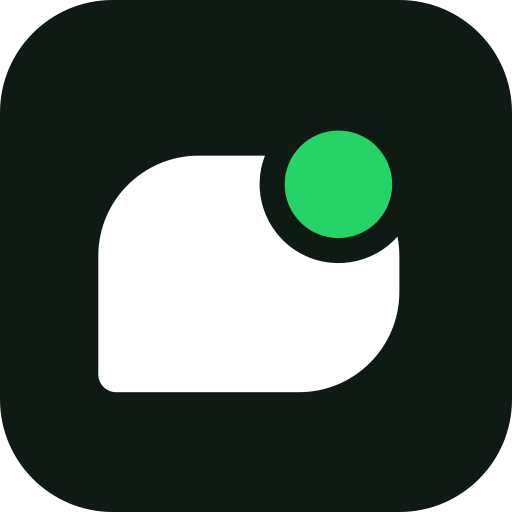
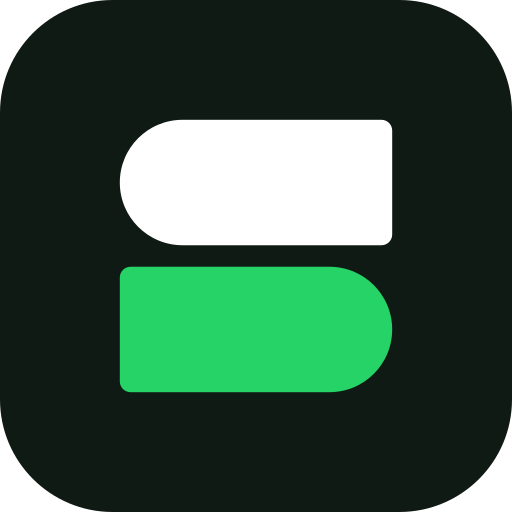
feat: redraw Sara marks as an admin assistant, not a chat brand
Handoff (default): an s in two halves, the owner's in ink and the half
Sara takes on in green. Cradle and Clover as alternates. Drops every
chat-bubble mark; DESIGN.md records the direction and the rejects.
Favicon, app icons and public/brand regenerated.

Changed region(s): [[0.1875, 0.2188, 0.7812, 0.7812]]

diff --git a/src/primitives/Logo.tsx b/src/primitives/Logo.tsx
@@ -3,39 +3,40 @@ import { cn } from "@/utils/cn";
 /**
  * The Sara marks.
  *
- * Sara sells one idea: the back office of a salon chain, run from the chat the
- * owner already has open. "Reply with a number. Sara does the rest." Both marks
- * are drawn from that exchange, in the product's own bubble language (18 : 6
- * radii, tail corners) and its colour rule: green belongs to the owner's own
- * voice, ink to Sara.
+ * Sara is a software assistant for small service businesses: it takes the
+ * administrative weight (invoices, receipts, bookings, payments, the day's
+ * numbers) off the owner so the owner can do the work itself. The marks say
+ * that, not where Sara happens to be reached. Each is two parts, the owner's
+ * business in ink and Sara's help in the one green, drawn heavy and soft to sit
+ * beside Bricolage the way the reference marks sit beside their names.
  *
- * - `reply`   Sara's bubble (ink, tail bottom-left) with the owner's green
- *             reply, the numeral disc from the menu, landing on its corner.
- *             One chat, a number in, the business answered. **Default.**
- * - `thread`  the exchange written out: Sara's menu in two lines, the owner's
- *             green reply below on the right. For wide, quiet places where the
- *             conversation should read as a conversation.
+ * - `handoff`  an `s` in two halves: the owner's half on top, the half Sara
+ *              takes off their hands below, in green. Admin handed over, the
+ *              business whole. **Default.**
+ * - `cradle`   an arm that holds a green disc up: support, the business carried.
+ *              The friendliest of the three; reads as a helper.
+ * - `clover`   four petals for the four jobs (bookings, invoices, receipts,
+ *              payments) round an open centre, the green one handled. Set on
+ *              the diagonal so it never reads as an AI sparkle.
  *
- * Both were proofed from 16px up (`yarn brand:generate` writes the sheet to
- * public/brand/sara-specimen.png). Rejected on that sheet, so not re-proposed:
- * two stacked bubbles (reads as any messaging app, says nothing of the
- * business), a six-petal menu burst (reads as an AI sparkle, and Sara is never
- * AI), an `s` strung from menu beads (the letter vanishes into a molecule), and
- * a torn-receipt bubble (reads as a ghost).
+ * All three were proofed from 16px up (`yarn brand:generate` writes the sheet
+ * to public/brand/sara-specimen.png). Rejected, not to be re-proposed: any chat
+ * bubble (Sara is not a messaging brand), a six-petal burst (AI sparkle), an
+ * `s` of beads, a receipt bubble (reads as a ghost), a concierge bell (reads
+ * as a food cloche), stacked list rows (a list icon), and a fully rounded
+ * `handoff`, which stops being an `s` and becomes two pills.
  *
- * `reply`'s notch is cut into the path itself rather than masked, so the mark
- * needs no ids and survives export to anything that reads bare SVG. Path data
- * here is the source of truth; scripts/gen-brand-assets.mjs restates it and
- * asserts every path still appears in this file.
+ * Path data here is the source of truth; scripts/gen-brand-assets.mjs restates
+ * it and asserts every path still appears in this file.
  */
 
-export type MarkName = "reply" | "thread";
+export type MarkName = "handoff" | "cradle" | "clover";
 
 type MarkProps = {
   name?: MarkName;
   /**
-   * Fill the owner's shape WhatsApp green. Turn it off for single-ink uses (a
-   * stamp, print) and on a green ground, where it would vanish.
+   * Fill Sara's part green. Turn it off for single-ink uses (a stamp, print)
+   * and on a green ground, where it would vanish.
    */
   accent?: boolean;
   className?: string;
@@ -47,7 +48,7 @@ type MarkProps = {
  * ink both work without variants.
  */
 export function LogoMark({
-  name = "reply",
+  name = "handoff",
   accent = true,
   className,
 }: MarkProps) {
@@ -65,45 +66,25 @@ export function LogoMark({
 }
 
 function Glyph({ name, accent }: { name: MarkName; accent: boolean }) {
-  if (name === "thread") return <Thread accent={accent} />;
-  return <Reply accent={accent} />;
+  if (name === "cradle") return <Cradle accent={accent} />;
+  if (name === "clover") return <Clover accent={accent} />;
+  return <Handoff accent={accent} />;
 }
 
 /**
- * An 84 x 66 bubble, 28 radius with a 5 tail corner (the system's bubble ratio
- * at mark scale), notched by a 22-radius moat round the 15-radius disc at
- * (73, 30). The moat is 7 units, wide enough to stay open at 16px, so the two
- * voices never touch.
+ * Two 76 x 35 halves, 6 apart, each round (17.5) on its outer end and nearly
+ * square (3) on its inner one. The near-square corners are what make it an
+ * `s`: rounded to match, the halves read as two stacked pills.
  */
-function Reply({ accent }: { accent: boolean }) {
+function Handoff({ accent }: { accent: boolean }) {
   return (
     <g>
       <path
-        d="M34 22H52.51A22 22 0 0 0 89.47 44.58A28 28 0 0 1 90 50V60A28 28 0 0 1 62 88H11A5 5 0 0 1 6 83V50A28 28 0 0 1 34 22Z"
-        fill="currentColor"
-      />
-      <Shape d="M58 30A15 15 0 1 0 88 30A15 15 0 1 0 58 30Z" accent={accent} />
-    </g>
-  );
-}
-
-/**
- * Three 20-unit rows, 6 apart: Sara's two lines left-aligned, the last with
- * Sara's tail corner; the owner's reply right-aligned with the owner's.
- */
-function Thread({ accent }: { accent: boolean }) {
-  return (
-    <g>
-      <path
-        d="M18 14H82A10 10 0 0 1 82 34H18A10 10 0 0 1 18 14Z"
-        fill="currentColor"
-      />
-      <path
-        d="M18 40H54A10 10 0 0 1 64 50V50A10 10 0 0 1 54 60H12A4 4 0 0 1 8 56V50A10 10 0 0 1 18 40Z"
+        d="M29.5 12H85A3 3 0 0 1 88 15V44A3 3 0 0 1 85 47H29.5A17.5 17.5 0 0 1 29.5 12Z"
         fill="currentColor"
       />
       <Shape
-        d="M46 66H82A10 10 0 0 1 92 76V82A4 4 0 0 1 88 86H46A10 10 0 0 1 36 76V76A10 10 0 0 1 46 66Z"
+        d="M15 53H70.5A17.5 17.5 0 0 1 70.5 88H15A3 3 0 0 1 12 85V56A3 3 0 0 1 15 53Z"
         accent={accent}
       />
     </g>
@@ -111,7 +92,44 @@ function Thread({ accent }: { accent: boolean }) {
 }
 
 /**
- * The owner's shape: `fill-accent` when accented, `currentColor` when not. A
+ * A 35-radius half-ring in a 15-unit round-capped stroke, holding a
+ * 17-radius disc clear of it by 11: held, never touching.
+ */
+function Cradle({ accent }: { accent: boolean }) {
+  return (
+    <g>
+      <path
+        d="M15 40A35 35 0 0 0 85 40"
+        fill="none"
+        stroke="currentColor"
+        strokeWidth={15}
+        strokeLinecap="round"
+      />
+      <Shape d="M33 34A17 17 0 1 0 67 34A17 17 0 1 0 33 34Z" accent={accent} />
+    </g>
+  );
+}
+
+/**
+ * Four teardrop petals struck from radius 6, tips 14-radius bulbs at radius
+ * 33, on the diagonals. The green petal points up-right.
+ */
+function Clover({ accent }: { accent: boolean }) {
+  return (
+    <g fill="currentColor">
+      <path d="M54.24 54.24L76.67 59.74A14 14 0 1 1 59.74 76.67Z" />
+      <path d="M45.76 54.24L40.26 76.67A14 14 0 1 1 23.33 59.74Z" />
+      <path d="M45.76 45.76L23.33 40.26A14 14 0 1 1 40.26 23.33Z" />
+      <Shape
+        d="M54.24 45.76L59.74 23.33A14 14 0 1 1 76.67 40.26Z"
+        accent={accent}
+      />
+    </g>
+  );
+}
+
+/**
+ * Sara's part: `fill-accent` when accented, `currentColor` when not. A
  * component rather than a ternary so the accented case emits no `fill`
  * attribute for the utility to fight with.
  */
@@ -122,12 +140,11 @@ function Shape({ d, accent }: { d: string; accent: boolean }) {
 
 /**
  * The mark in a filled tile: favicon, app icon, avatar. `ink` (the default and
- * the favicon) keeps the green reply; green on ink is a fill on a dark ground,
- * not text, and it keeps the tab icon from passing for WhatsApp's own green
- * tile. `accent` draws the whole mark in on-accent.
+ * the favicon) keeps Sara's part green; green on ink is a fill on a dark
+ * ground, not text. `accent` draws the whole mark in on-accent.
  */
 export function LogoTile({
-  name = "reply",
+  name = "handoff",
   ground = "ink",
   className,
 }: {
@@ -159,7 +176,11 @@ export function LogoTile({
 }
 
 /** A bare mark that carries the name, for places with no wordmark beside it. */
-export function Logo({ name = "reply", accent = true, className }: MarkProps) {
+export function Logo({
+  name = "handoff",
+  accent = true,
+  className,
+}: MarkProps) {
   return (
     <span role="img" aria-label="Sara" className={cn("inline-flex", className)}>
       <LogoMark name={name} accent={accent} />

diff --git a/src/primitives/Wordmark.tsx b/src/primitives/Wordmark.tsx
@@ -13,7 +13,7 @@ import { LogoMark, type MarkName } from "./Logo";
 export function Wordmark({
   href = "/",
   mark = true,
-  name = "reply",
+  name = "handoff",
   className,
 }: {
   href?: string;

diff --git a/DESIGN.md b/DESIGN.md
@@ -259,10 +259,11 @@ Soft and friendly. Every interactive control is a full pill (buttons, slot choic
 Sticky white bar, translucent with blur, 64px; wordmark "sara" in display 600 at 26px on the left, muted 15px links centred, compact primary on the right. Links darken to ink on hover. Below 960px the links collapse into a round leaf-grey menu button that opens a full-width list.
 
 ### Logo
-The lockup is the mark plus "sara" in display 600 (the `Wordmark` primitive); the name stays live text. The marks live in `src/primitives/Logo.tsx` and say what Sara sells, a whole business run from one chat by replying with a number, in the product's bubble language and colour rule (green is the owner's voice, ink is Sara's):
-- **Reply (default):** Sara's ink bubble, tail bottom-left, with the owner's green numeral disc landing on its corner, separated by a moat. A number in, the business answered.
-- **Thread (alternate):** the exchange written out: two ink lines from Sara on the left, the owner's green reply on the right with its tail bottom-right. For wide, quiet placements.
-Green is only ever a fill inside the mark. The favicon and app icons are Reply on an ink tile (22 radius, mark inset to 70%); a green tile draws the mark wholly in on-accent. The plain name without a mark is for inline credits ("Bookings by sara") and the green closing wordmark. Static exports in `public/brand` come from `yarn brand:generate`, never by hand. Rejected and not to be re-proposed: stacked twin bubbles (any messaging app), a six-petal burst (reads as an AI sparkle), an "s" of beads, a torn-receipt bubble (reads as a ghost).
+The lockup is the mark plus "sara" in display 600 (the `Wordmark` primitive); the name stays live text. The marks live in `src/primitives/Logo.tsx`. They present Sara as what it is, a software assistant that takes the administrative weight off a small business, not as a messaging brand: each is two parts, the owner's business in ink and Sara's help in the single green fill, drawn heavy and soft.
+- **Handoff (default):** an "s" in two halves, round on the outer ends and nearly square (3) on the inner ones. The owner's half in ink, the half Sara takes off their hands in green. Keep the inner corners near-square; rounded, the halves read as two pills and the "s" is lost.
+- **Cradle (alternate):** a half-ring holding a green disc clear of it. Support; the friendliest, most "helper" of the three.
+- **Clover (alternate):** four petals on the diagonals for bookings, invoices, receipts and payments, round an open centre; the green one is handled.
+Green is only ever a fill inside the mark. The favicon and app icons are Handoff on an ink tile (22 radius, mark inset to 70%); a green tile draws the mark wholly in on-accent. The plain name without a mark is for inline credits ("Bookings by sara") and the green closing wordmark. Static exports in `public/brand` come from `yarn brand:generate`, never by hand. Rejected and not to be re-proposed: any chat bubble (Sara is not a messaging brand), a six-petal burst or four-point star (reads as an AI sparkle), an "s" of beads, a receipt bubble (a ghost), a concierge bell (a food cloche), stacked list rows (a list icon).
 
 ### Chat Bubbles (signature)
 Sara's replies: white, hairline border, 18px radius with a 6px bottom-left corner. Owner messages: WhatsApp green with green-ink text and a 6px bottom-right corner, right-aligned. Numbers in a menu render as green circular numerals (32px). This is the system's illustration language; use it wherever the product's behaviour needs explaining.
